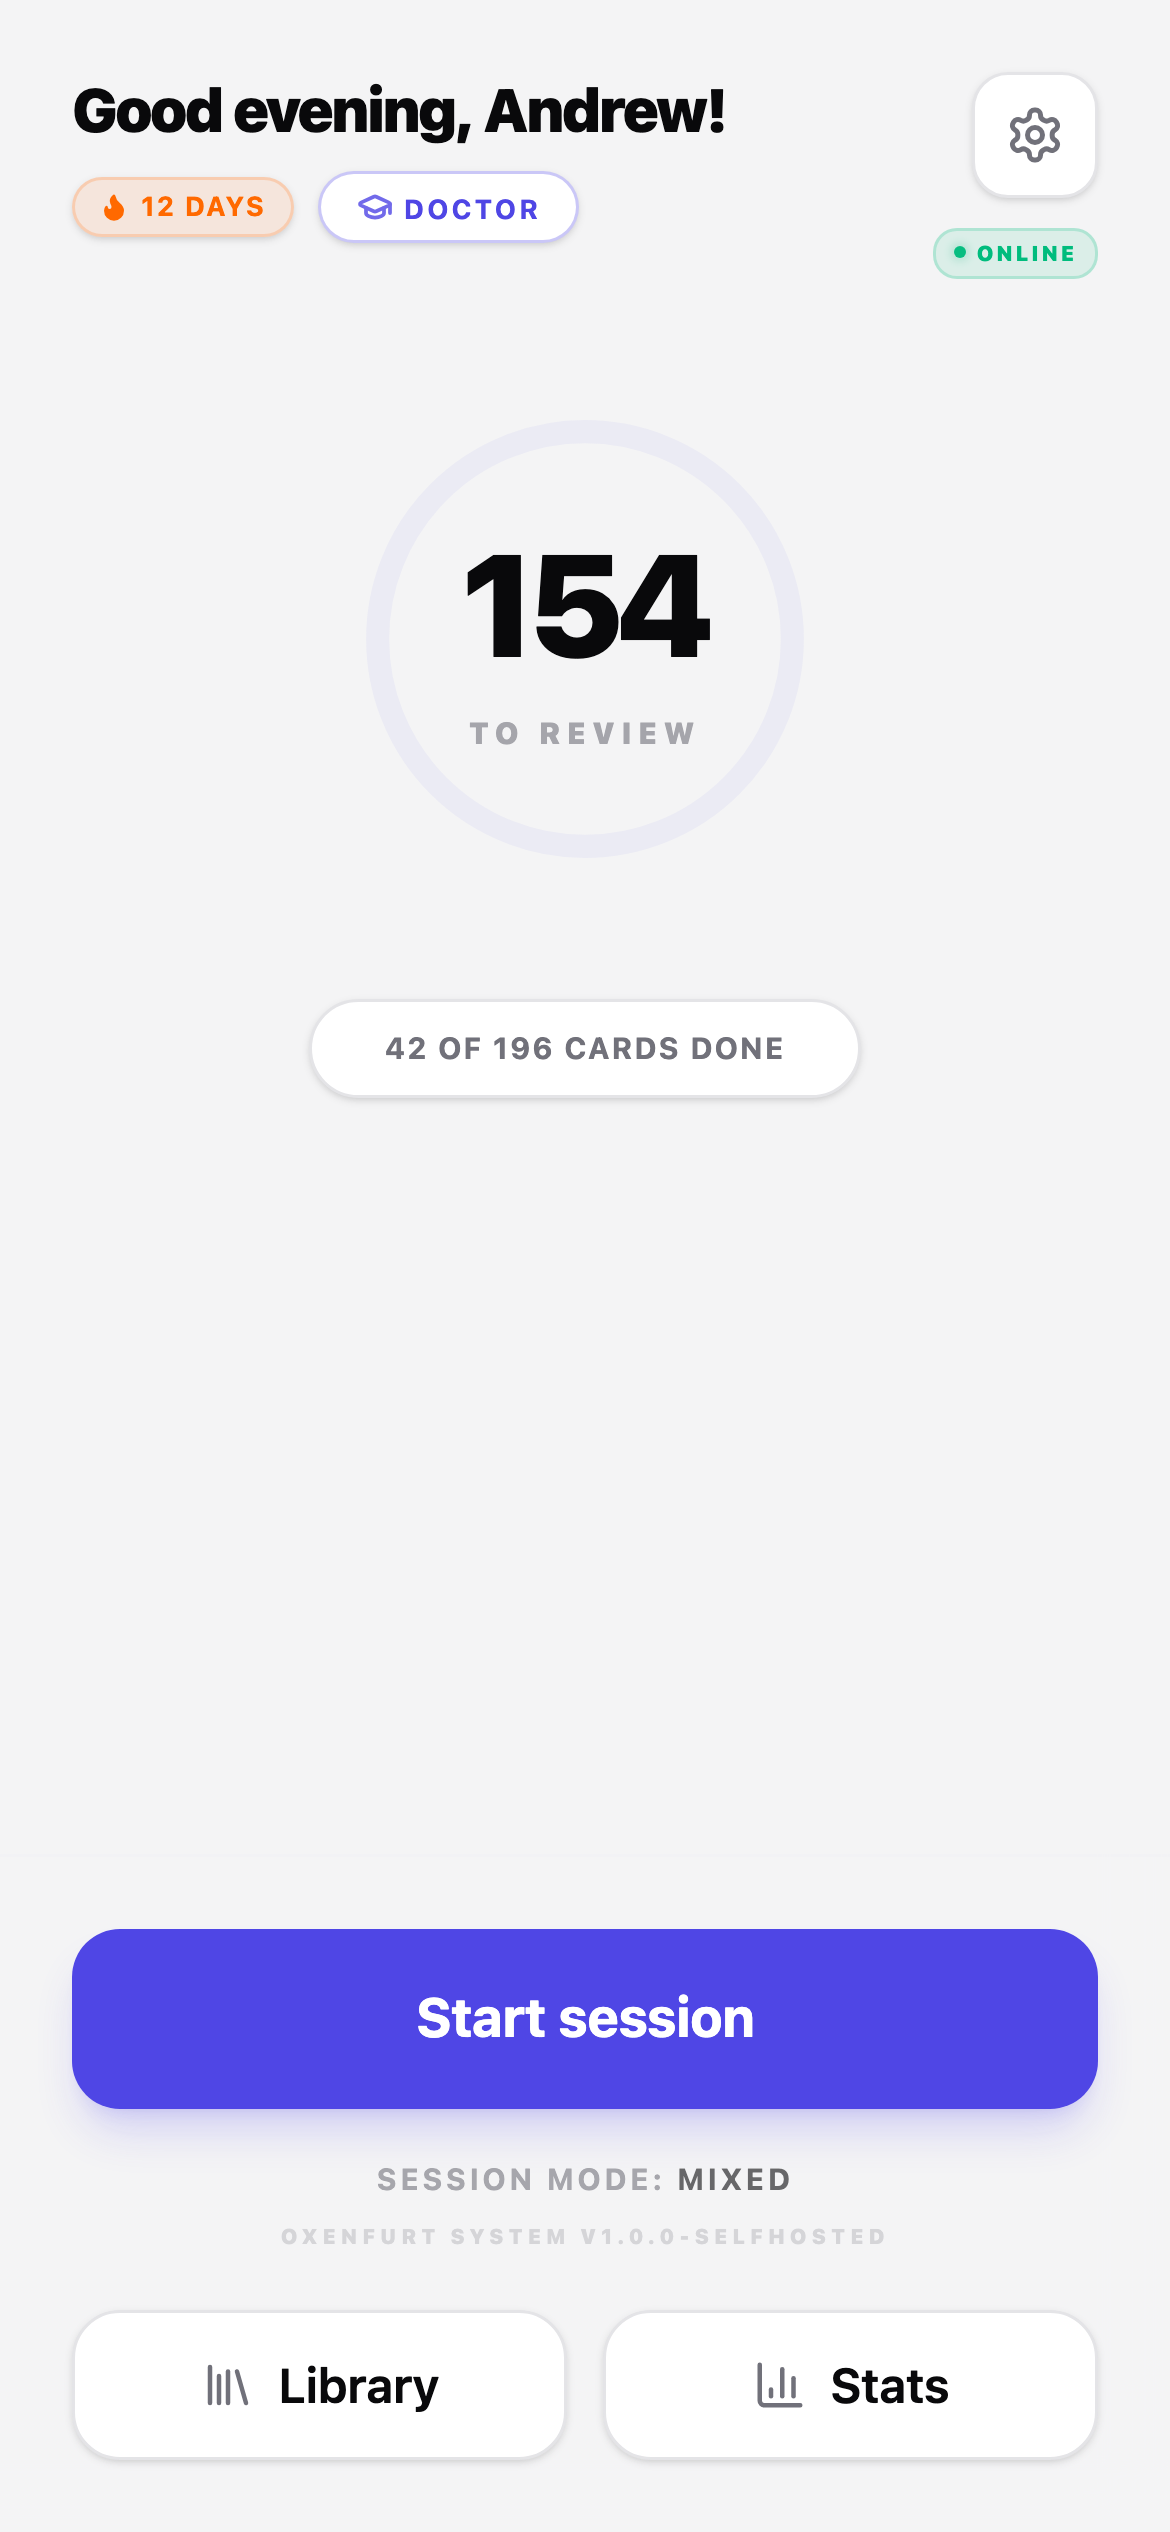
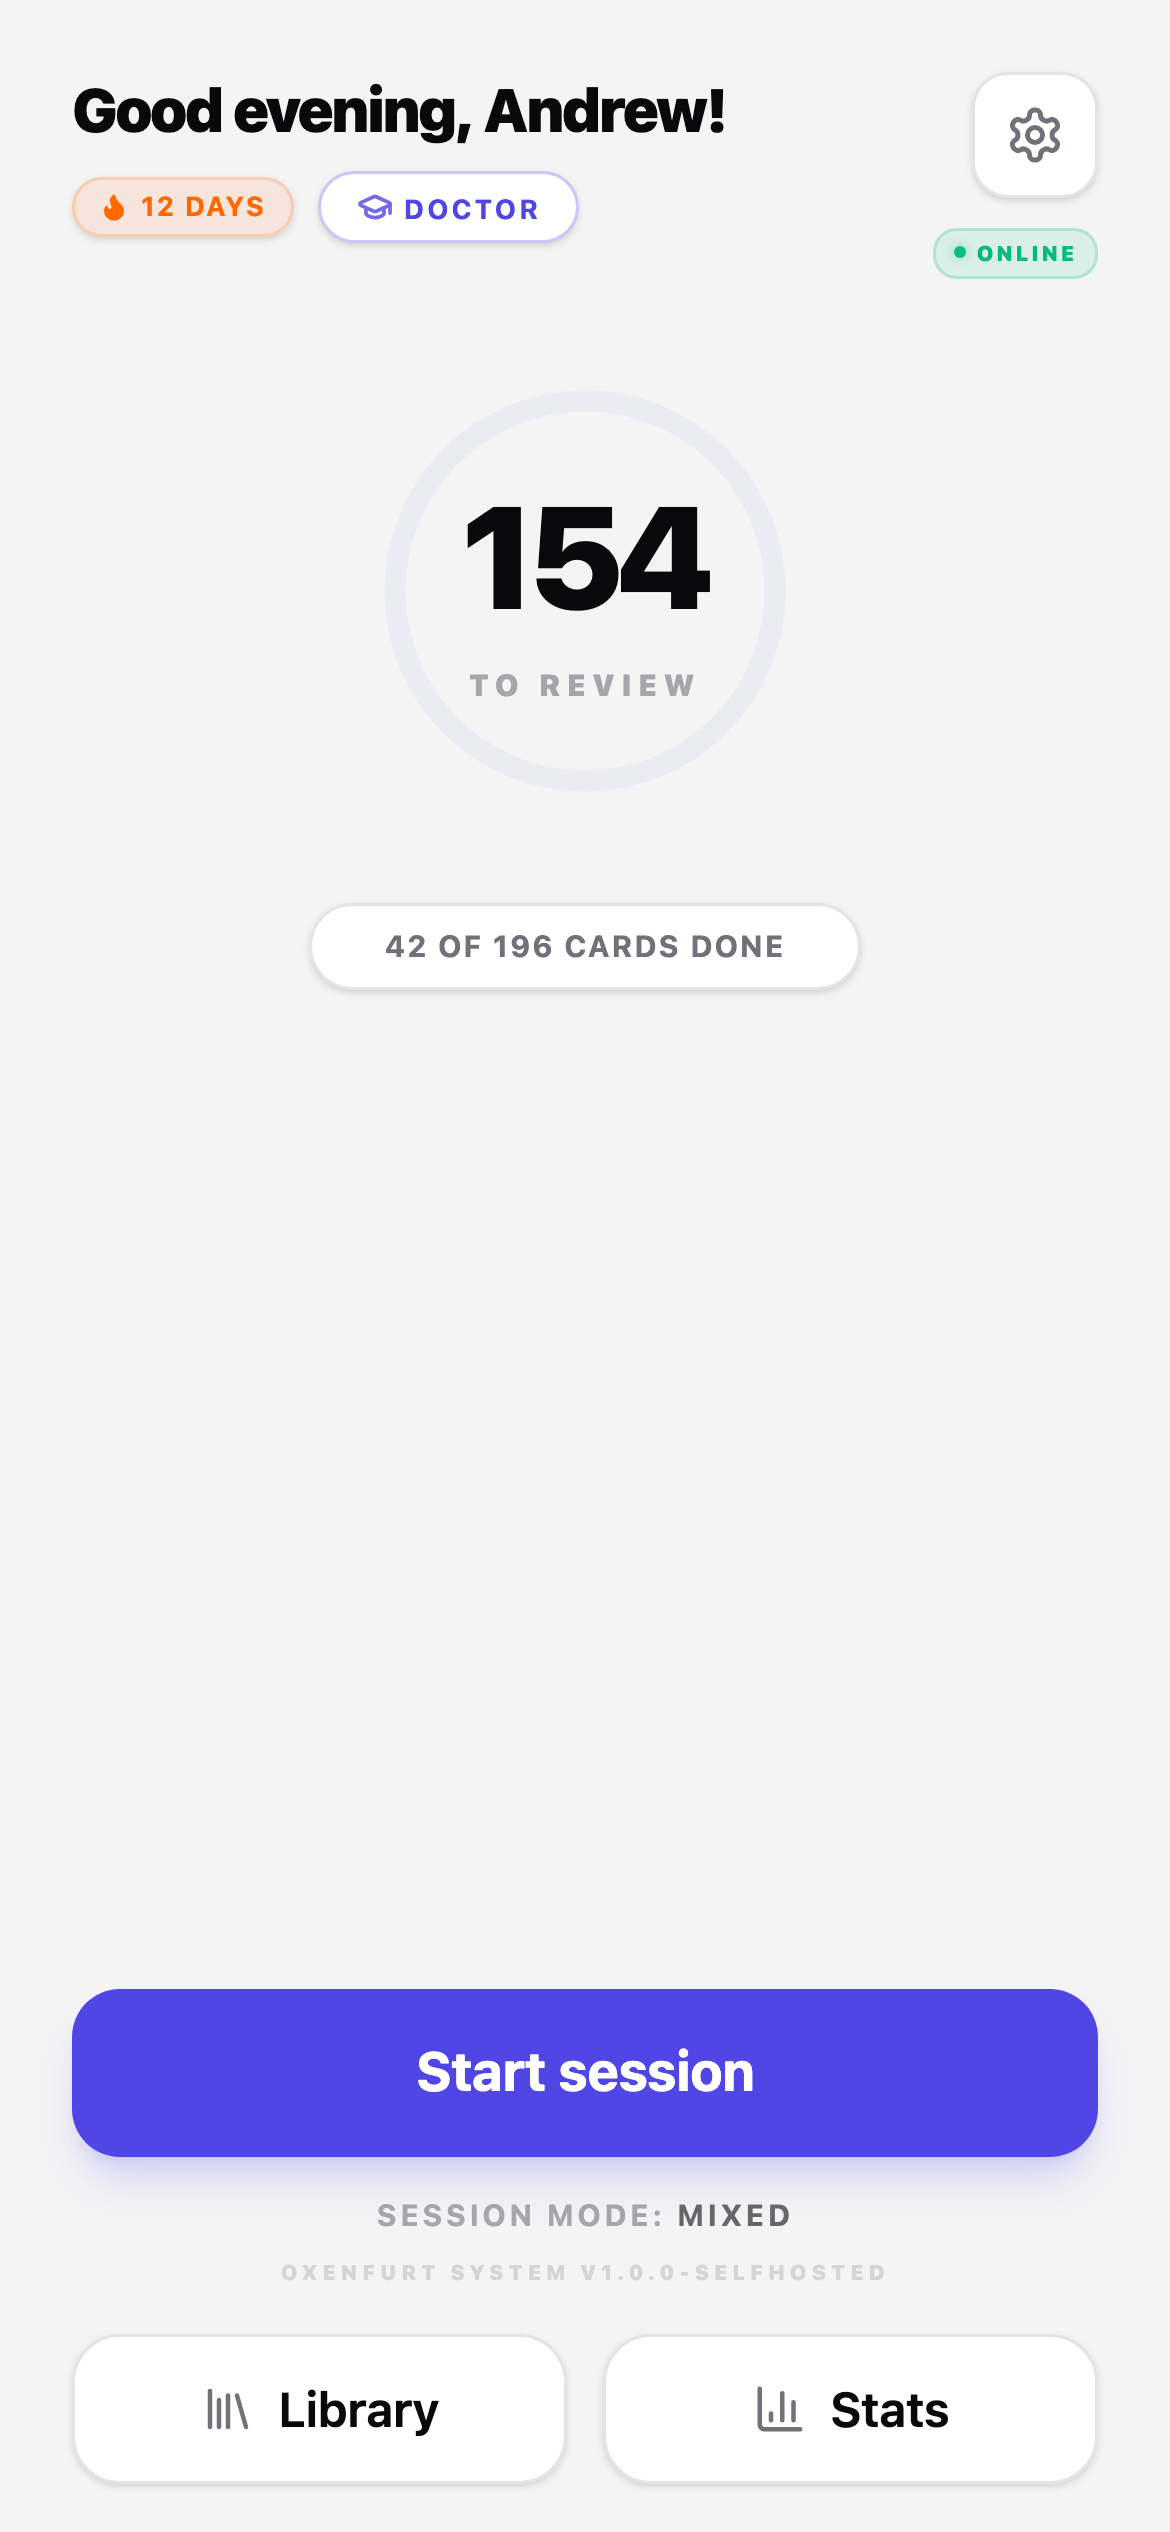
fix: resolve total Home screen layout collapse and overlap

diff --git a/apps/mini-app/src/components/Home.tsx b/apps/mini-app/src/components/Home.tsx
@@ -142,11 +142,11 @@ export function Home({ onStart, onOpenLibrary, onOpenStats, onOpenAnswers, userF
       </header>
 
       {/* 2. Scrollable Middle Zone - Uses flex-1 to fill space but remains scrollable if needed */}
-      <div className="flex-1 overflow-y-auto px-6 no-scrollbar flex flex-col gap-6 py-4">
+      <div className="flex-1 overflow-y-auto px-6 no-scrollbar flex flex-col gap-4 py-2">
         
         {/* Ring Section - Centered within the flex-1 area */}
         <div className="flex flex-col items-center justify-center shrink-0">
-          <div className="relative w-48 h-48 sm:w-56 sm:h-56 flex items-center justify-center">
+          <div className="relative w-44 h-44 sm:w-48 sm:h-48 flex items-center justify-center">
             <svg className="absolute inset-0 w-full h-full -rotate-90" viewBox="0 0 200 200">
               <circle cx="100" cy="100" r={radius} stroke="currentColor" strokeWidth="8" fill="transparent" className="text-app-primary/5" />
               <motion.circle cx="100" cy="100" r={radius} stroke="currentColor" strokeWidth="8" fill="transparent" strokeLinecap="round" className="text-app-primary" style={{ strokeDasharray: circumference, strokeDashoffset, filter: 'drop-shadow(0 0 3px rgba(79, 70, 229, 0.2))' }} initial={{ strokeDashoffset: circumference }} animate={{ strokeDashoffset }} transition={{ duration: 1.5, ease: 'circOut' }} />
@@ -170,8 +170,8 @@ export function Home({ onStart, onOpenLibrary, onOpenStats, onOpenAnswers, userF
         </div>
 
         {/* Stats Summary Area */}
-        <div className="flex flex-col items-center gap-6 w-full max-w-[340px] self-center shrink-0">
-          <div className="bg-app-surface px-6 py-2 rounded-full border border-app-border shadow-sm text-app-hint text-center text-[10px] font-bold uppercase tracking-wider">
+        <div className="flex flex-col items-center gap-4 w-full max-w-[340px] self-center shrink-0">
+          <div className="bg-app-surface px-6 py-1.5 rounded-full border border-app-border shadow-sm text-app-hint text-center text-[10px] font-bold uppercase tracking-wider">
             {totalForToday === 0 ? t('home.no_due') : due === 0 ? t('home.progress_done_excellent', { reviewed }) : t('home.progress_in_progress', { reviewed, total: totalForToday })}
           </div>
 
@@ -201,9 +201,9 @@ export function Home({ onStart, onOpenLibrary, onOpenStats, onOpenAnswers, userF
       </div>
 
       {/* 3. Fixed Footer Actions */}
-      <footer className="shrink-0 flex flex-col gap-3 px-6 py-6 bg-app-bg/95 backdrop-blur-md border-t border-app-border/10">
-        <div className="max-w-[500px] mx-auto w-full flex flex-col gap-4">
-          <button className="w-full bg-app-primary text-app-primary-text py-4 rounded-2xl font-bold text-lg active:scale-95 transition-transform shadow-lg shadow-app-primary/20" onClick={() => { primeSpeech(); void primeAudio(); onStart(pausedSession ? pausedSession.mode : mode); }}>
+      <footer className="shrink-0 flex flex-col gap-2 px-6 py-4 bg-app-bg/95 backdrop-blur-md border-t border-app-border/10">
+        <div className="max-w-[500px] mx-auto w-full flex flex-col gap-3">
+          <button className="w-full bg-app-primary text-app-primary-text py-3.5 rounded-2xl font-bold text-lg active:scale-95 shadow-lg shadow-app-primary/20" onClick={() => { primeSpeech(); void primeAudio(); onStart(pausedSession ? pausedSession.mode : mode); }}>
             {pausedSession ? t('home.resume_session') : t('home.start_session')}
           </button>
           <div className="flex flex-col items-center gap-1.5 opacity-60">
@@ -241,8 +241,8 @@ function CompactHeatmap({ history }: { history: { date: string; count: number }[
     cells.push({ date: iso, count: counts.get(iso) ?? 0 });
   }
   return (
-    <div className="flex flex-col items-center">
-      <div className="grid grid-flow-col gap-1.5" style={{ gridTemplateRows: 'repeat(7, 8px)' }}>
+    <div className="flex flex-col items-center shrink-0">
+      <div className="grid grid-flow-col gap-1.5 shrink-0" style={{ gridTemplateRows: 'repeat(7, 8px)', height: '92px' }}>
         {cells.map(c => ( <div key={c.date} className={`w-2 h-2 rounded-[2px] ${c.count === 0 ? 'bg-app-hint/10' : c.count < 5 ? 'bg-app-primary/30' : c.count < 15 ? 'bg-app-primary/60' : 'bg-app-primary'}`} /> ))}
       </div>
     </div>
